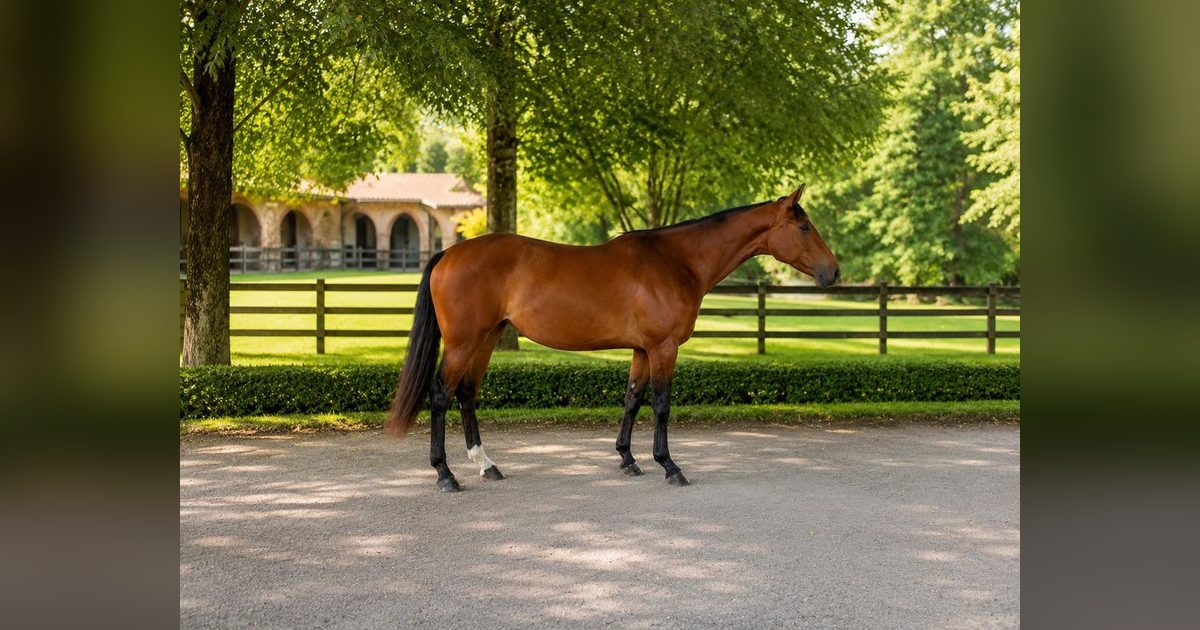
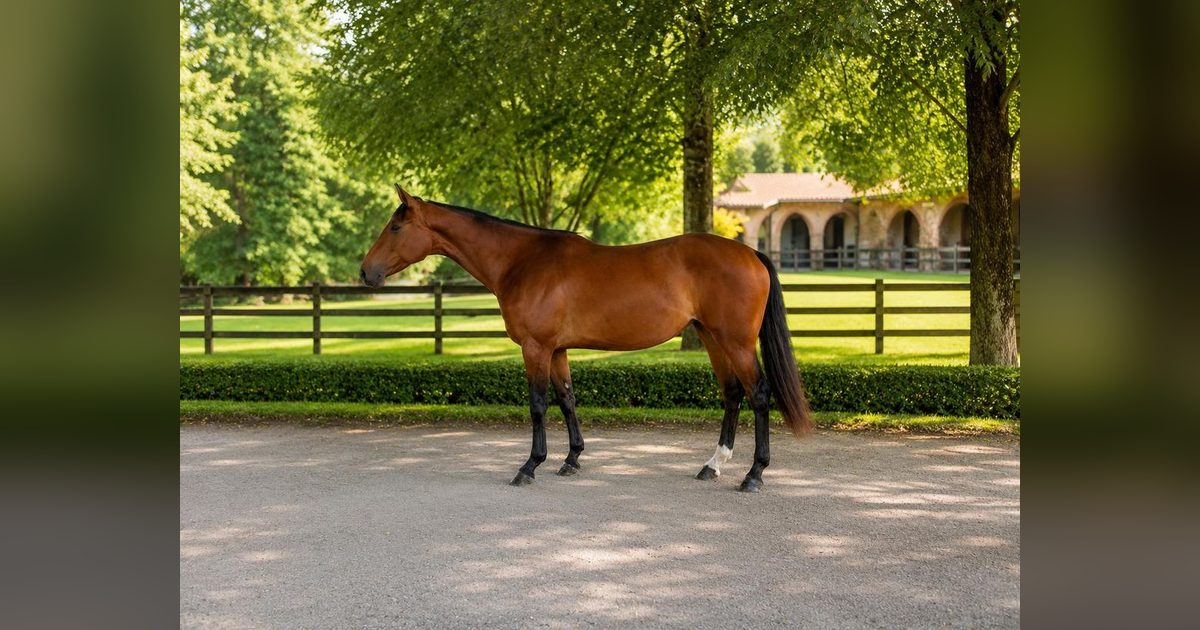
Four cards that cut the horse, and Cardesse turned
Mark named four horses whose card cut the animal. The card window is square
and a landscape photograph loses a third of its width to it, so Diamecho lost
his head, Waikiki hers, Unguessable both ends and Cacao his head.

Three of them are composed onto a square instead of cut to one: the whole
horse, with the space around him filled from the same photograph, enlarged
and blurred. It is the recipe the share cards already use. Nothing invented,
nothing of the horse lost, and only the card picture is treated: the ones
behind it stay as they came.

Unguessable needed none of that in the end. Mark sent a wider frame of the
same shoot, and at 1438 across the whole horse survives the square crop on
his own. The composed version was thrown away in favour of the real one,
which is the better trade every time.

Cardesse faces left now. I had filed her as left already when she plainly
faces right, so she never got turned while Cortina and Waikiki did. All
twelve mares face the same way at last.

Audit green across 118 pages, 203 photographs, none orphaned.

diff --git a/scripts/place-whatsapp-photos.py b/scripts/place-whatsapp-photos.py
@@ -30,7 +30,7 @@ Usage:  python3 scripts/place-whatsapp-photos.py [--dry-run]
 """
 
 import json, os, sys, io, re, subprocess
-from PIL import Image, ImageOps
+from PIL import Image, ImageOps, ImageFilter, ImageEnhance
 
 ROOT = os.path.dirname(os.path.dirname(os.path.abspath(__file__)))
 SRC = os.path.join(ROOT, 'content', 'whatsapp-2026-09-06')
@@ -57,7 +57,35 @@ def git_show(path):
 SUPPLIED = {
     'filou': 'content/manual-photos/filou.jpeg',
     'diabalou-sva': 'content/manual-photos/diabalou-sva.jpeg',
+    # Sent later the same afternoon: the same shoot again, framed wide enough
+    # that the whole horse survives the square card crop on its own. It needs
+    # no composed background, which is why it is not in SQUARE.
+    'unguessable-von-axe': 'content/manual-photos/unguessable-von-axe.jpeg',
 }
+
+# The card window is square and a landscape photograph loses a third of its
+# width to it, which is why these four lost a head or a tail. Their card
+# picture is composed onto a square instead of cut to one: the whole horse,
+# with the space around him filled from the same photograph, enlarged and
+# blurred. Nothing is invented and nothing of the horse is lost. Mark named
+# these four on 7 September.
+SQUARE = {'diamecho-von-axe-z', 'waikiki-vd-berghoeve', 'cacao-von-axe-z'}
+
+
+def to_square(im, margin=0.03):
+    side = max(im.size)
+    w, h = im.size
+    bg = im.resize((int(w * max(side / w, side / h) * 1.25),
+                    int(h * max(side / w, side / h) * 1.25)), Image.LANCZOS)
+    bg = bg.crop(((bg.width - side) // 2, (bg.height - side) // 2,
+                  (bg.width - side) // 2 + side, (bg.height - side) // 2 + side))
+    bg = ImageEnhance.Brightness(bg.filter(ImageFilter.GaussianBlur(side // 40))).enhance(0.82)
+    inner = int(side * (1 - margin * 2))
+    f = min(inner / w, inner / h)
+    fg = im.resize((int(w * f), int(h * f)), Image.LANCZOS)
+    bg.paste(fg, ((side - fg.width) // 2, (side - fg.height) // 2))
+    return bg
+
 
 # the direction each archive settles on, counted off her own pictures
 FACING = {'broodmare': 'left', 'foal': 'right', 'sport': 'right', 'stallion': 'right'}
@@ -81,9 +109,11 @@ TURN_EXISTING = {
 }
 
 
-def save(im, path, mirror):
+def save(im, path, mirror, square=False):
     if mirror:
         im = ImageOps.mirror(im)
+    if square:
+        im = to_square(im)
     w, h = im.size
     if w > WIDTH:
         im = im.resize((WIDTH, round(h * WIDTH / w)), Image.LANCZOS)
@@ -151,7 +181,7 @@ def main():
         for src, mirror in incoming:
             dst = os.path.join(DST, '%s-%d.jpg' % (slug, idx))
             if not dry:
-                save(Image.open(src), dst, mirror)
+                save(Image.open(src), dst, mirror, square=(idx == 1 and slug in SQUARE))
             paths.append('assets/img/horses/%s-%d.jpg' % (slug, idx))
             idx += 1
         turn = slug in TURN_EXISTING
@@ -160,7 +190,8 @@ def main():
                 break
             dst = os.path.join(DST, '%s-%d.jpg' % (slug, idx))
             if not dry:
-                save(Image.open(io.BytesIO(blob)), dst, turn and n == 0)
+                save(Image.open(io.BytesIO(blob)), dst, turn and n == 0,
+                     square=(idx == 1 and slug in SQUARE))
             paths.append('assets/img/horses/%s-%d.jpg' % (slug, idx))
             idx += 1
 
@@ -192,7 +223,7 @@ def main():
         out[slug] = {'name': slug, 'photos': ['assets/img/horses/%s-1.jpg' % slug],
                      'hers': 1, 'kept': 0}
 
-    for slug in TURN_EXISTING:
+    for slug in sorted(SQUARE | TURN_EXISTING):
         if slug in out:
             continue
         first = 'assets/img/horses/%s-1.jpg' % slug
@@ -200,8 +231,10 @@ def main():
             skipped.append(slug + ' (nothing to turn)')
             continue
         if not dry:
-            save(Image.open(io.BytesIO(git_show(first))), os.path.join(ROOT, first), True)
-        flipped.append('%s  the picture already on the site, turned' % slug)
+            save(Image.open(io.BytesIO(git_show(first))), os.path.join(ROOT, first),
+                 slug in TURN_EXISTING, square=slug in SQUARE)
+        flipped.append('%s  the picture already on the site, %s' % (
+            slug, 'turned' if slug in TURN_EXISTING else 'squared'))
 
     # the two archive heroes she offered, and her screen shot, which is not a horse
     heroes = {}
